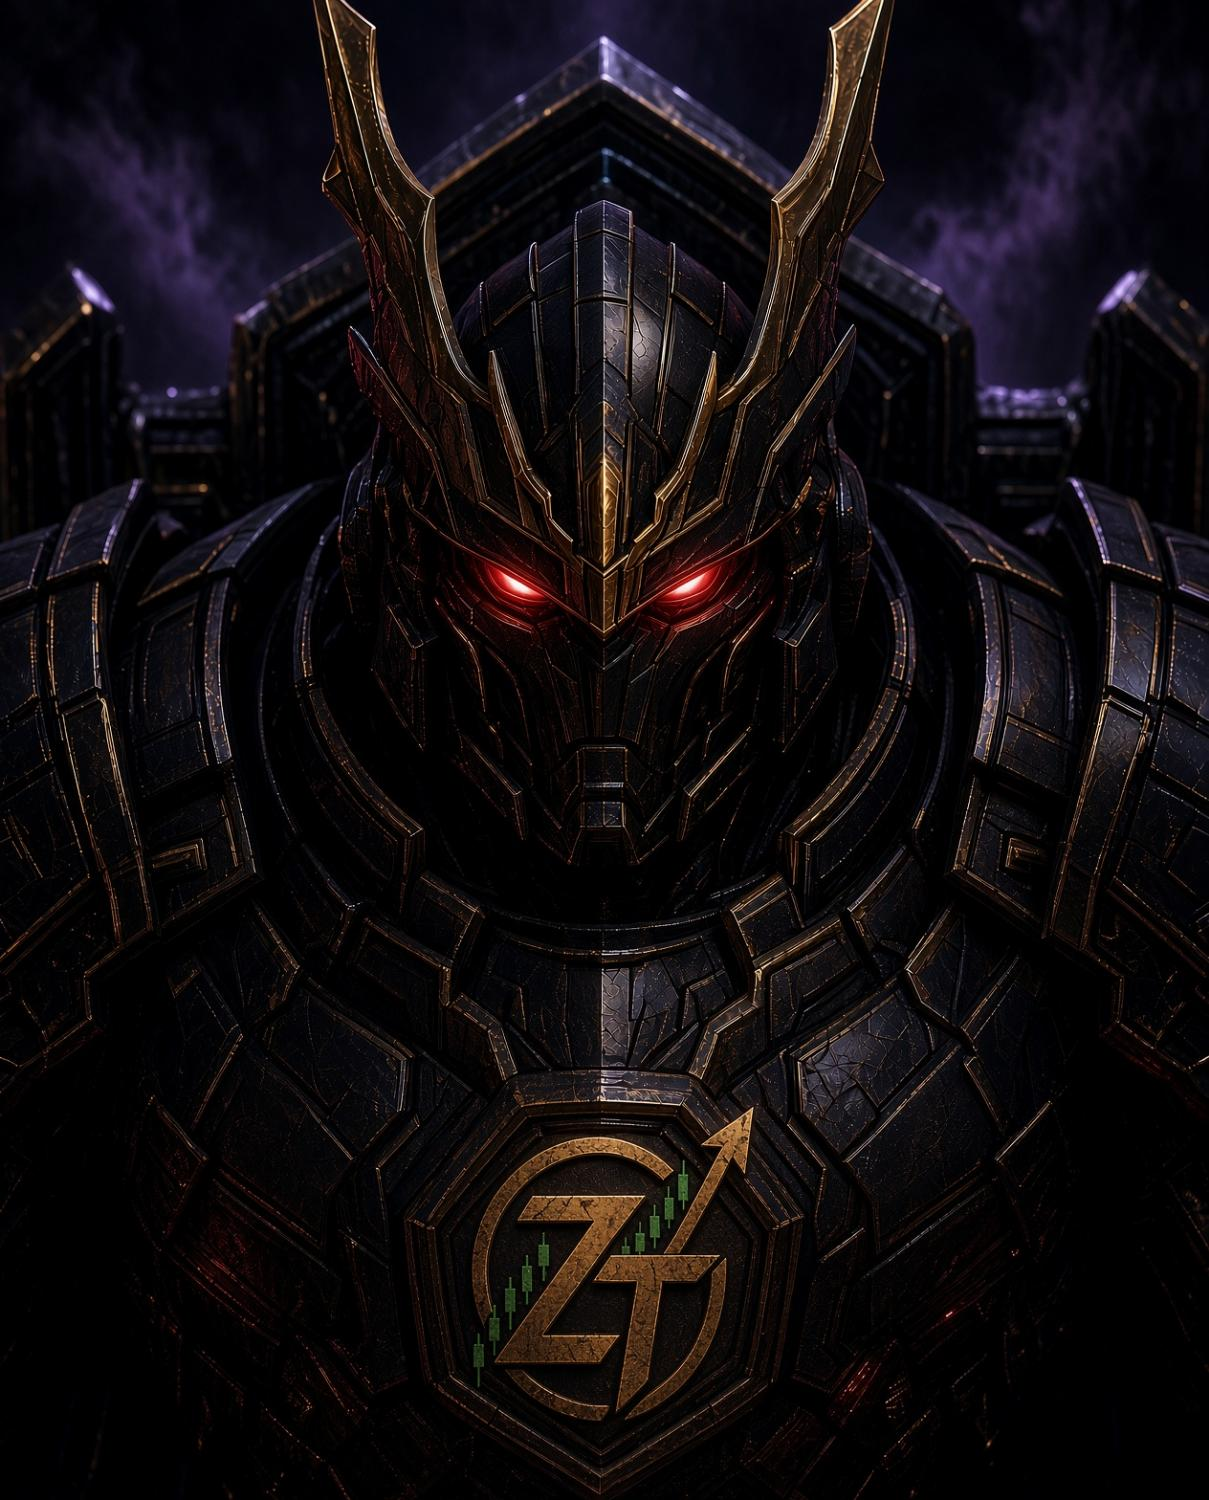
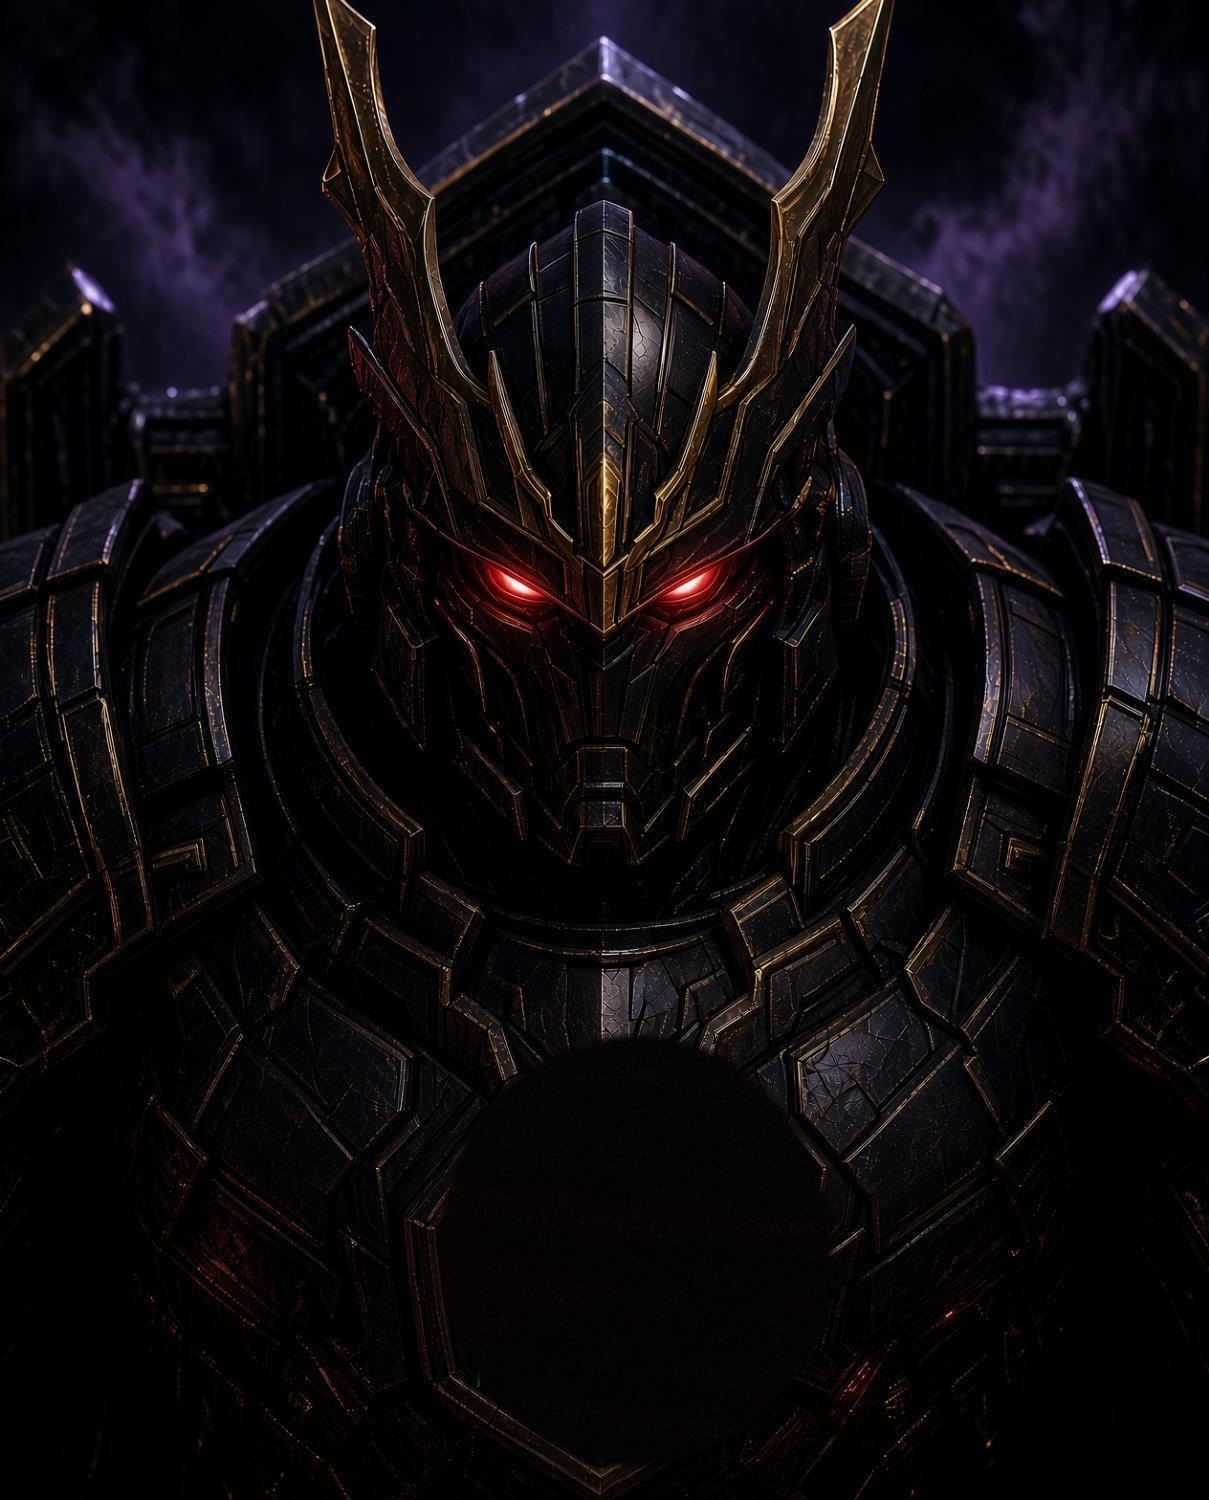
Fix Floor HUD/seat overlap and hide Satoshi chest ZT
Move dual nameplates inside the table and dock the phone GOAL
strip on the top rail so seat labels stay readable at 1280 and
390. Cover the gold ZT chest emblem on Satoshi chair art (face
unchanged). Add real AABB intersection tests plus a chest-pixel
check. Chair lock math is untouched.

Changed region(s): [[0.3672, 0.6747, 0.6733, 0.9813]]

diff --git a/frontend/static/roundtable.js b/frontend/static/roundtable.js
@@ -1976,6 +1976,25 @@ if (window.applySettingsSnapshot && !window.applySettingsSnapshot._real) {
     return true;
   }
 
+  function coverSatoshiEmblem(cx, cy, r) {
+    // Cover the gold ZT chest emblem. Face stays. Vitalik is already clean.
+    if (!ctx || !r) return;
+    ctx.save();
+    ctx.beginPath();
+    ctx.arc(cx, cy, r, 0, Math.PI * 2);
+    ctx.clip();
+    const ex = cx;
+    const ey = cy + r * 0.58;
+    ctx.beginPath();
+    ctx.ellipse(ex, ey, r * 0.48, r * 0.38, 0, 0, Math.PI * 2);
+    ctx.fillStyle = "rgba(6, 8, 14, 0.97)";
+    ctx.fill();
+    ctx.strokeStyle = "rgba(80, 88, 98, 0.45)";
+    ctx.lineWidth = Math.max(1, r * 0.025);
+    ctx.stroke();
+    ctx.restore();
+  }
+
   function chairKeyOf(which) {
     return isEthTable(which) ? "ethereum" : "bitcoin";
   }
@@ -2379,6 +2398,7 @@ if (window.applySettingsSnapshot && !window.applySettingsSnapshot._real) {
       ctx.fillStyle = "#0a1220";
       ctx.fill();
     }
+    if (!isEthTable(which)) coverSatoshiEmblem(cx, portraitY, pr);
     rememberChairHit(cx, portraitY, pr, which);
     // Gold ring when locked / focused, else direction color
     ctx.beginPath();
@@ -2407,7 +2427,9 @@ if (window.applySettingsSnapshot && !window.applySettingsSnapshot._real) {
     ctx.textAlign = "center";
     ctx.font = "700 11px Orbitron, monospace";
     ctx.fillStyle = locked ? gold : (which === "ethereum" ? "#9dffc0" : "#7fe9ff");
-    ctx.fillText((label || (chairNameOf(which) + (isEthTable(which) ? " · ETH" : " · BTC"))) + (focused ? " · FOCUS" : ""), cx, cy - radius - 10);
+    // Inside the table, under the portrait — not in the top-arc seat ring (FOCUSWICK).
+    const dualNameY = portraitY + pr + 11;
+    ctx.fillText((label || (chairNameOf(which) + (isEthTable(which) ? " · ETH" : " · BTC"))) + (focused ? " · FOCUS" : ""), cx, dualNameY);
 
     ctx.font = "700 12px Orbitron, monospace";
     const plateY = cy + radius + 14;
@@ -2498,6 +2520,7 @@ if (window.applySettingsSnapshot && !window.applySettingsSnapshot._real) {
       ctx.fillStyle = "#0a1220";
       ctx.fill();
     }
+    if (!isEthTable(which)) coverSatoshiEmblem(cx, cy - 4, pr);
     ctx.beginPath();
     ctx.arc(cx, cy - 4, pr, 0, Math.PI * 2);
     ctx.strokeStyle = (dir === "UP" || dir === "UP_HOLD") ? "rgba(0,255,100,0.7)" :
@@ -2586,12 +2609,13 @@ if (window.applySettingsSnapshot && !window.applySettingsSnapshot._real) {
   function floorNameplateFit(w, h) {
     // Keep GOAL strip + Chair nameplate inside the table so they do not
     // cover bottom seat names (WICK / WIRE / EXHAUST / QUORUM) at 1280 or 390.
+    // Phone GOAL docks at the top rail (not a wide bar through the ring).
     const short = Math.min(w, h);
     const phone = !!(typeof isPhoneDesk === "function" && isPhoneDesk()) || w <= 420 || short <= 520;
     const seatR = phone ? 18 : 24;
     const labelStack = phone ? 28 : 42;
     const edgePad = phone ? 6 : 10;
-    const nameplateH = 60;
+    const nameplateH = phone ? 22 : 36;
     const ringMul = 1.15;
     const wantRadius = short * 0.40;
     const maxRing = short * 0.5 - seatR - labelStack - edgePad;
@@ -2602,6 +2626,64 @@ if (window.applySettingsSnapshot && !window.applySettingsSnapshot._real) {
     const lrBase = Math.min(wantLr, maxLr);
     return { radius, ringR, lrBase, seatR, labelStack, nameplateH, phone, ringMul };
   }
+
+  function floorHudGeometry(w, h) {
+    // Real AABBs for 1280 dual nameplates and 390 GOAL vs seat labels.
+    const phone = w <= 480 || Math.min(w, h) <= 520;
+    const dual = !phone && w >= 720;
+    const labels = ["WICK", "PULSE", "DRIFT", "TAPE", "CARRY", "ORBIT", "VOLT", "CHAIN", "STREAK", "ODDS", "STRIKE", "CLOCK", "WHALE", "QUORUM", "FADE", "CHEAP", "VEL", "WIRE", "CASCADE", "EXHAUST", "WARDEN"];
+    const out = { phone: phone, dual: dual, nameplates: [], goals: [], seats: [] };
+    function tw(s, px) { return Math.max(8, Math.round(String(s).length * px * 0.62)); }
+    function addSeats(cx, cy, ringR, seatR, nameOff, fontPx) {
+      const n = labels.length;
+      labels.forEach(function (lab, i) {
+        const ang = -Math.PI / 2 + (i / n) * Math.PI * 2;
+        const sx = cx + Math.cos(ang) * ringR;
+        const sy = cy + Math.sin(ang) * ringR;
+        const lw = tw(lab, fontPx);
+        const ly = sy + seatR + nameOff;
+        out.seats.push({ x: sx - lw / 2, y: ly - fontPx, w: lw, h: fontPx + 4, name: lab });
+      });
+    }
+    if (dual) {
+      const R = Math.min(w, h) * 0.26;
+      const pr = R * 0.80;
+      const cy = h * 0.52;
+      const portraitY = cy - 2;
+      const nameY = portraitY + pr + 11;
+      [
+        [w * 0.25, "SATOSHI · BTC · FOCUS"],
+        [w * 0.75, "VITALIK · ETH"],
+      ].forEach(function (pair) {
+        const cx = pair[0];
+        const t = pair[1];
+        const nw = tw(t, 11);
+        out.nameplates.push({ x: cx - nw / 2, y: nameY - 11, w: nw, h: 14, text: t });
+        addSeats(cx, cy, R * 1.48, 22, 12, 10);
+      });
+    } else {
+      const fit = floorNameplateFit(w, h);
+      const cx = w / 2, cy = h / 2;
+      const lr = fit.lrBase;
+      if (fit.phone) {
+        const goal = "GOAL · one guess @ best odds (<80%)";
+        const gw = Math.min(w - 118, 260);
+        out.goals.push({ x: 108, y: 8, w: gw, h: 22, text: goal });
+        const nw = tw("SATOSHI", 10);
+        out.nameplates.push({ x: cx - nw / 2, y: cy + lr * 0.50 - 8, w: nw, h: 12, text: "SATOSHI" });
+      } else {
+        const goal = "GOAL · one guess @ best odds (<80%)";
+        const gw = 200;
+        const plateY = cy + lr + 46;
+        out.goals.push({ x: cx - gw / 2, y: plateY - 14, w: gw, h: 28, text: goal });
+        const nw = tw("SATOSHI", 10);
+        out.nameplates.push({ x: cx - nw / 2, y: cy + lr + 10 - 8, w: nw, h: 12, text: "SATOSHI" });
+      }
+      addSeats(cx, cy, fit.ringR, fit.seatR, fit.phone ? 14 : 18, fit.phone ? 9 : 11);
+    }
+    return out;
+  }
+  window.__floorHudGeometry = floorHudGeometry;
 
   function drawArt() {
     if (!ctx || !canvas) return;
@@ -3131,6 +3213,7 @@ if (window.applySettingsSnapshot && !window.applySettingsSnapshot._real) {
       ctx.fillStyle = colorFor(leaderDir, Math.max(leaderConf, 45));
       ctx.fill();
     }
+    if (!isEthTable(focusTable)) coverSatoshiEmblem(cx, cy, lr);
     rememberChairHit(cx, cy, lr, chairKeyOf(focusTable));
 
     // Eye glow ring pulse (extra emphasis on call color)
@@ -3158,10 +3241,11 @@ if (window.applySettingsSnapshot && !window.applySettingsSnapshot._real) {
 
     // Labels under portrait — tucked to the rim so GOAL / nameplate stay
     // inside the seat ring (do not cover WICK / WIRE / EXHAUST / QUORUM).
-    const hudTight = !!(floorFit && mode === "floor");
-    const nameY = cy + lr + (hudTight ? 10 : 16);
-    const dirY = cy + lr + (hudTight ? 22 : 32);
-    const confY = cy + lr + (hudTight ? 32 : 46);
+    const hudTight = !!(floorFit && (mode === "floor" || mode === "night"));
+    const phoneHud = !!(hudTight && floorFit.phone);
+    const nameY = phoneHud ? (cy + lr * 0.50) : (cy + lr + (hudTight ? 10 : 16));
+    const dirY = phoneHud ? (cy + lr * 0.64) : (cy + lr + (hudTight ? 22 : 32));
+    const confY = phoneHud ? (cy + lr * 0.76) : (cy + lr + (hudTight ? 32 : 46));
     ctx.font = hudTight ? "700 10px Orbitron, sans-serif" : "700 11px Orbitron, sans-serif";
     ctx.fillStyle = GOLD;
     ctx.textAlign = "center";
@@ -3188,16 +3272,17 @@ if (window.applySettingsSnapshot && !window.applySettingsSnapshot._real) {
       const showConf = (lc.confidence != null ? lc.confidence : leaderConf);
       const entryOdds = lc.entry_odds_pct;
       const isDir = showDir === "UP" || showDir === "DOWN" || showDir === "UP_HOLD" || showDir === "DOWN_HOLD";
-      const plateY = cy + lr + (hudTight ? 46 : 68);
-      const plateW = hudTight ? (isLocked && isDir ? 220 : 200) : (isLocked && isDir ? 260 : 240);
-      const plateH = hudTight ? 28 : 38;
+      const plateY = phoneHud ? 19 : (cy + lr + (hudTight ? 46 : 68));
+      const plateW = phoneHud ? Math.min(w - 118, 260) : (hudTight ? (isLocked && isDir ? 220 : 200) : (isLocked && isDir ? 260 : 240));
+      const plateH = phoneHud ? 22 : (hudTight ? 28 : 38);
+      const plateX = phoneHud ? (108 + plateW / 2) : cx;
       ctx.beginPath();
       const rx = 8;
-      ctx.moveTo(cx - plateW/2 + rx, plateY - plateH/2);
-      ctx.arcTo(cx + plateW/2, plateY - plateH/2, cx + plateW/2, plateY + plateH/2, rx);
-      ctx.arcTo(cx + plateW/2, plateY + plateH/2, cx - plateW/2, plateY + plateH/2, rx);
-      ctx.arcTo(cx - plateW/2, plateY + plateH/2, cx - plateW/2, plateY - plateH/2, rx);
-      ctx.arcTo(cx - plateW/2, plateY - plateH/2, cx + plateW/2, plateY - plateH/2, rx);
+      ctx.moveTo(plateX - plateW/2 + rx, plateY - plateH/2);
+      ctx.arcTo(plateX + plateW/2, plateY - plateH/2, plateX + plateW/2, plateY + plateH/2, rx);
+      ctx.arcTo(plateX + plateW/2, plateY + plateH/2, plateX - plateW/2, plateY + plateH/2, rx);
+      ctx.arcTo(plateX - plateW/2, plateY + plateH/2, plateX - plateW/2, plateY - plateH/2, rx);
+      ctx.arcTo(plateX - plateW/2, plateY - plateH/2, plateX + plateW/2, plateY - plateH/2, rx);
       ctx.closePath();
       ctx.fillStyle = isDir ? "rgba(0, 20, 40, 0.94)" : "rgba(10, 12, 20, 0.88)";
       ctx.fill();
@@ -3207,7 +3292,7 @@ if (window.applySettingsSnapshot && !window.applySettingsSnapshot._real) {
       ctx.shadowBlur = isDir ? 16 : 0;
       ctx.stroke();
       ctx.shadowBlur = 0;
-      ctx.font = "700 12px Orbitron, sans-serif";
+      ctx.font = phoneHud ? "700 8px Orbitron, sans-serif" : "700 12px Orbitron, sans-serif";
       ctx.fillStyle = isDir ? "#ffffff" : "rgba(180, 200, 220, 0.9)";
       ctx.textAlign = "center";
       ctx.textBaseline = "middle";
@@ -3218,7 +3303,7 @@ if (window.applySettingsSnapshot && !window.applySettingsSnapshot._real) {
       } else {
         lockLabel = "GOAL · one guess @ best odds (<80%)";
       }
-      ctx.fillText(lockLabel, cx, plateY);
+      ctx.fillText(lockLabel, plateX, plateY);
     }
 
     // Scanline overlay on canvas itself (subtle)

diff --git a/backend/tests/test_desk_qa.py b/backend/tests/test_desk_qa.py
@@ -198,7 +198,7 @@ class FloorNameplateOverlapTests(unittest.TestCase):
         self.assertIn("WICK / WIRE / EXHAUST / QUORUM", JS)
         for w, h in ((1280, 700), (1280, 620), (390, 390), (390, 520)):
             radius, ring_r, lr, seat_r, nameplate_h, phone = _floor_nameplate_fit(w, h)
-            plate_bottom = lr + 46 + 14
+            plate_bottom = (lr * 0.76 + 8) if phone else (lr + 46 + 14)
             seat_inner = ring_r - seat_r
             self.assertLess(
                 plate_bottom,
@@ -213,6 +213,67 @@ class FloorNameplateOverlapTests(unittest.TestCase):
                 h - 4,
                 "outer seat labels clip at %sx%s" % (w, h),
             )
+
+    def test_real_rects_do_not_intersect_at_1280_and_390(self):
+        self.assertIn("function floorHudGeometry", JS)
+        self.assertIn("window.__floorHudGeometry", JS)
+        self.assertIn("dualNameY", JS)
+        self.assertIn("FOCUSWICK", JS)
+        hits_1280 = ("WICK", "CASCADE", "CARRY", "ODDS", "STREAK")
+        hits_390 = ("QUORUM", "WICK", "EXHAUST", "CLOCK", "WARDEN", "DRIFT")
+        for w, h, watch in ((1280, 700, hits_1280), (1280, 620, hits_1280), (390, 390, hits_390), (390, 520, hits_390)):
+            layout = _floor_hud_layout(w, h)
+            hud = list(layout["nameplates"]) + list(layout["goals"])
+            names = {s["name"] for s in layout["seats"]}
+            for lab in watch:
+                self.assertIn(lab, names, "%s missing at %sx%s" % (lab, w, h))
+            for plate in hud:
+                for seat in layout["seats"]:
+                    self.assertFalse(
+                        _rects_intersect(plate, seat),
+                        "%s overlaps %s at %sx%s plate=%s seat=%s"
+                        % (plate.get("text") or "HUD", seat["name"], w, h, plate, seat),
+                    )
+
+
+class SatoshiChairEmblemTests(unittest.TestCase):
+    def test_cover_satoshi_emblem_hides_zt_on_chair_art(self):
+        js = (ROOT / "frontend" / "static" / "roundtable.js").read_text(encoding="utf-8")
+        html = (ROOT / "frontend" / "static" / "index.html").read_text(encoding="utf-8")
+        self.assertIn("function coverSatoshiEmblem(cx, cy, r)", js)
+        self.assertIn("gold ZT chest emblem", js)
+        self.assertIn("coverSatoshiEmblem(cx, portraitY, pr)", js)
+        self.assertIn("coverSatoshiEmblem(cx, cy, lr)", js)
+        self.assertIn("coverSatoshiEmblem(cx, cy - 4, pr)", js)
+        self.assertIn('"/chair-up.jpg"', js)
+        self.assertIn('"/chair-down.jpg"', js)
+        self.assertIn('"/chair-wait.jpg"', js)
+        for name in ("chair-up.jpg", "chair-down.jpg", "chair-wait.jpg"):
+            self.assertTrue((ROOT / "frontend" / "static" / name).is_file(), name)
+        self.assertIn("Satoshi’s Council", html)
+        self.assertNotIn("ZT ·", js)
+        self.assertNotIn("ZT ·", html)
+
+    def test_satoshi_chair_jpgs_have_no_gold_zt_on_chest(self):
+        from PIL import Image
+
+        def is_emblem(p):
+            r, g, b = p[:3]
+            if r > 140 and g > 95 and b < 100 and r > b + 50:
+                return True
+            if g > 100 and g > r + 30 and g > b + 15 and r < 150:
+                return True
+            return False
+
+        for name in ("chair-up.jpg", "chair-down.jpg", "chair-wait.jpg"):
+            im = Image.open(ROOT / "frontend" / "static" / name).convert("RGB")
+            w, h = im.size
+            gold = 0
+            for y in range(int(h * 0.68), int(h * 0.90)):
+                for x in range(int(w * 0.38), int(w * 0.62)):
+                    if is_emblem(im.getpixel((x, y))):
+                        gold += 1
+            self.assertLess(gold, 80, "%s still has gold/ZT chest pixels (%s)" % (name, gold))
 
 
 class FloorTableChromeOverlapTests(unittest.TestCase):
@@ -357,7 +418,7 @@ def _floor_nameplate_fit(w, h):
     seat_r = 18 if phone else 24
     label_stack = 28 if phone else 42
     edge_pad = 6 if phone else 10
-    nameplate_h = 60
+    nameplate_h = 22 if phone else 36
     ring_mul = 1.15
     want_radius = short * 0.40
     max_ring = short * 0.5 - seat_r - label_stack - edge_pad
@@ -367,6 +428,83 @@ def _floor_nameplate_fit(w, h):
     max_lr = max(40, ring_r - seat_r - nameplate_h - 10)
     lr_base = min(want_lr, max_lr)
     return radius, ring_r, lr_base, seat_r, nameplate_h, phone
+
+
+_SEAT_LABELS = (
+    "WICK", "PULSE", "DRIFT", "TAPE", "CARRY", "ORBIT", "VOLT", "CHAIN",
+    "STREAK", "ODDS", "STRIKE", "CLOCK", "WHALE", "QUORUM", "FADE", "CHEAP",
+    "VEL", "WIRE", "CASCADE", "EXHAUST", "WARDEN",
+)
+
+
+def _text_w(s, px):
+    return max(8, round(len(str(s)) * px * 0.62))
+
+
+def _floor_hud_layout(w, h):
+    """Mirrors floorHudGeometry — real AABBs, not a radial-only fit."""
+    import math
+
+    phone = w <= 480 or min(w, h) <= 520
+    dual = (not phone) and w >= 720
+    nameplates = []
+    goals = []
+    seats = []
+
+    def add_seats(cx, cy, ring_r, seat_r, name_off, font_px):
+        n = len(_SEAT_LABELS)
+        for i, lab in enumerate(_SEAT_LABELS):
+            ang = -math.pi / 2 + (i / n) * math.pi * 2
+            sx = cx + math.cos(ang) * ring_r
+            sy = cy + math.sin(ang) * ring_r
+            lw = _text_w(lab, font_px)
+            ly = sy + seat_r + name_off
+            seats.append(
+                {"x": sx - lw / 2, "y": ly - font_px, "w": lw, "h": font_px + 4, "name": lab}
+            )
+
+    if dual:
+        r = min(w, h) * 0.26
+        pr = r * 0.80
+        cy = h * 0.52
+        portrait_y = cy - 2
+        name_y = portrait_y + pr + 11
+        for cx, text in ((w * 0.25, "SATOSHI · BTC · FOCUS"), (w * 0.75, "VITALIK · ETH")):
+            nw = _text_w(text, 11)
+            nameplates.append({"x": cx - nw / 2, "y": name_y - 11, "w": nw, "h": 14, "text": text})
+            add_seats(cx, cy, r * 1.48, 22, 12, 10)
+    else:
+        radius, ring_r, lr, seat_r, _nh, is_phone = _floor_nameplate_fit(w, h)
+        cx, cy = w / 2.0, h / 2.0
+        if is_phone:
+            gw = min(w - 118, 260)
+            goals.append(
+                {
+                    "x": 108,
+                    "y": 8,
+                    "w": gw,
+                    "h": 22,
+                    "text": "GOAL · one guess @ best odds (<80%)",
+                }
+            )
+            nw = _text_w("SATOSHI", 10)
+            nameplates.append({"x": cx - nw / 2, "y": cy + lr * 0.50 - 8, "w": nw, "h": 12, "text": "SATOSHI"})
+        else:
+            gw = 200
+            plate_y = cy + lr + 46
+            goals.append(
+                {
+                    "x": cx - gw / 2,
+                    "y": plate_y - 14,
+                    "w": gw,
+                    "h": 28,
+                    "text": "GOAL · one guess @ best odds (<80%)",
+                }
+            )
+            nw = _text_w("SATOSHI", 10)
+            nameplates.append({"x": cx - nw / 2, "y": cy + lr + 10 - 8, "w": nw, "h": 12, "text": "SATOSHI"})
+        add_seats(cx, cy, ring_r, seat_r, 14 if is_phone else 18, 9 if is_phone else 11)
+    return {"phone": phone, "dual": dual, "nameplates": nameplates, "goals": goals, "seats": seats}
 
 
 class PacksNotDroppedTests(unittest.TestCase):
